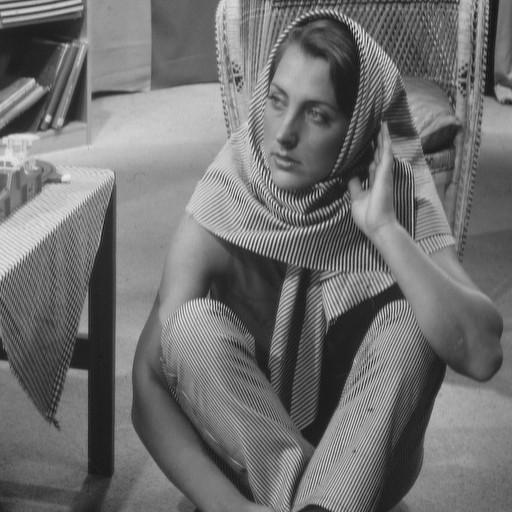
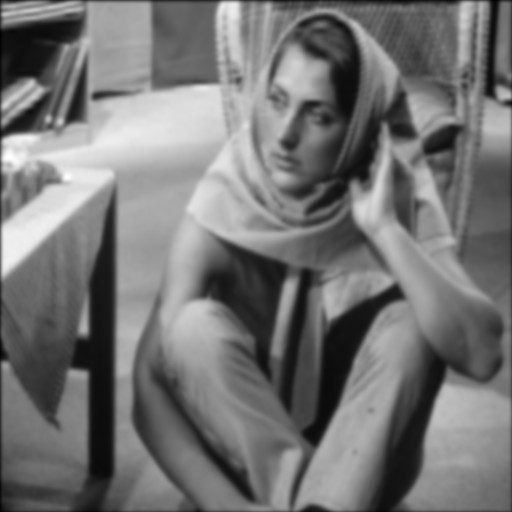
доделана 3 лаба.

diff --git a/lab3/lab3.py b/lab3/lab3.py
@@ -49,6 +49,35 @@ def jpegFunc(img, quality):
     return new_img
 
 
+def viewImgs(imgs, title, steps, *args):
+    for i in range(0, len(imgs)):
+        fig = plt.figure(figsize=(7, 7))
+        plt.imshow(imgs[i], cmap="gray")
+        if len(args) > 0:
+            plt.title(f"{title}{steps[i]}{args[0]}")
+        else:
+            plt.title(f"{title}{steps[i]}")
+    show()
+
+
+def printTable(table, coltype, rowtype):
+    first_row = "\t\t\t|\t"
+    delimiter = "-"*9
+    for i in range(0, len(table)):
+        first_row += f"s: {coltype[i]}\t|\t"
+    delimiter += "-"*(len(first_row) - 1 + 4*len(table))
+    print(first_row)
+    print(delimiter)
+    i = 0
+    for row in table:
+        text = f"JPEG: {rowtype[i]}\t|\t"
+        for el in row:
+            text += f"{el:.3f}\t|\t"
+        i += 1
+        print(text)
+        print(delimiter)
+
+
 def print_hi(name):
     # Use a breakpoint in the code line below to debug your script.
     print(f'Hi, {name}')  # Press Ctrl+F8 to toggle the breakpoint.
@@ -66,7 +95,7 @@ if __name__ == '__main__':
 
     # встраивание
     F = lab2.DVTwithLvlDecomposition(C, decompositionLvl)
-    alpha = 0.81
+    alpha = 0.9  # 0.81 нет смысла брать большое(>25), так как яркость ограничивается [0, 255]
     Fw = lab2.insertW(F, decompositionLvl, W, alpha, 0)  # встроили знак в спектр
     CW = lab2.invDVTwithLvlDecomposition(Fw, decompositionLvl)  # получили изображение со встроенным знаком
     imsave("CW.png", CW)
@@ -78,31 +107,119 @@ if __name__ == '__main__':
     newW = lab2.rateW(newFw, F, alpha, decompositionLvl, n, 0)
     ro = lab2.detector(W, newW)
     psnr = skimage.metrics.peak_signal_noise_ratio(C, savedCW)
-    print(f"Without changes:\t\tp: {ro:.5f}\tpsnr: {psnr:.3f}\tbest a: {alpha}")
+    print(f"Without changes:\t\tp: {ro:.5f}\t\tpsnr: {psnr:.3f}\t\ta: {alpha}\n\n")
 
     # циклический сдвиг с r от 0.1 до 0.9 с шагом 0.1 (сдвиг выполняется на r*N пикселей)
     cyclyImgs = []
     cycleShift = np.arange(0.1, 1, 0.1)
+    cycle_ro = []
     for shift in cycleShift:
-        cyclyImgs.append(cycle_shift(savedCW, shift))
+        deformImg = cycle_shift(savedCW, shift)
+        cyclyImgs.append(deformImg)
+        newFw = lab2.DVTwithLvlDecomposition(deformImg, decompositionLvl)
+        newW = lab2.rateW(newFw, F, alpha, decompositionLvl, n, 0)
+        ro = lab2.detector(W, newW)
+        cycle_ro.append(ro)
+        psnr = skimage.metrics.peak_signal_noise_ratio(savedCW, deformImg)
+        print(f"Cycle shift {shift:.1f}:\t\tp: {ro:.5f}\t\tpsnr: {psnr:.3f}\t\ta: {alpha}")
+    print("\n\n")
 
     # поворот от 1 до 90 с шагом 8.9
     rotationImgs = []
     rotation = np.arange(1, 91, 8.9)
+    rotation_ro = []
     for rot in rotation:
-        rotationImgs.append(rotate(savedCW, rot))
+        deformImg = rotate(savedCW, rot)
+        rotationImgs.append(deformImg)
+        newFw = lab2.DVTwithLvlDecomposition(deformImg, decompositionLvl)
+        newW = lab2.rateW(newFw, F, alpha, decompositionLvl, n, 0)
+        ro = lab2.detector(W, newW)
+        rotation_ro.append(ro)
+        psnr = skimage.metrics.peak_signal_noise_ratio(savedCW, deformImg)
+        print(f"Rotation {rot:.1f}:\t\tp: {ro:.5f}\t\tpsnr: {psnr:.3f}\t\ta: {alpha}")
+    print("\n\n")
 
     # гауссовское размытие сигма от 1 до 4 с шагом 0.5 (написать свертку CW равно g**C)
     GaussBlurImgs = []
     GaussBlur = np.arange(1, 4.1, 0.5)
+    GaussBlur_ro = []
     for sigma in GaussBlur:
-        GaussBlurImgs.append(Gauss_blur(savedCW, sigma))
+        deformImg = Gauss_blur(savedCW, sigma)
+        GaussBlurImgs.append(deformImg)
+        newFw = lab2.DVTwithLvlDecomposition(deformImg, decompositionLvl)
+        newW = lab2.rateW(newFw, F, alpha, decompositionLvl, n, 0)
+        ro = lab2.detector(W, newW)
+        GaussBlur_ro.append(ro)
+        psnr = skimage.metrics.peak_signal_noise_ratio(savedCW, deformImg)
+        print(f"Gaussian Blur {sigma}:\t\tp: {ro:.5f}\t\tpsnr: {psnr:.3f}\t\ta: {alpha}")
+    print("\n\n")
 
     # jpeg качество от 30 до 90 с шагом 10
     jpegImgs = []
     jpeg = np.arange(30, 100, 10)
+    jpeg_ro = []
     for QF in jpeg:
-        jpegImgs.append(jpegFunc(savedCW, QF))
+        deformImg = jpegFunc(savedCW, QF)
+        jpegImgs.append(deformImg)
+        newFw = lab2.DVTwithLvlDecomposition(deformImg, decompositionLvl)
+        newW = lab2.rateW(newFw, F, alpha, decompositionLvl, n, 0)
+        ro = lab2.detector(W, newW)
+        jpeg_ro.append(ro)
+        psnr = skimage.metrics.peak_signal_noise_ratio(savedCW, deformImg)
+        print(f"JPEG {QF}:\t\tp: {ro:.5f}\t\tpsnr: {psnr:.3f}\t\ta: {alpha}")
+    print("\n\n")
+
+    # во второй лабы мы встраивали с помощью вейвлета Хаара.
+    # он основан на выделении границ
+    # при изменении положения границ объектов спектр тоже уедет(согласно преобразованию изображения)
+
+    # при циклическом сдвиге форма границ объектов остается, но они смещаются => спектр тоже сместиться
+    # и цвз надо искать в другом месте, а не там где мы вставляли
+    # результат спектр ДВП изменен, цвз потеряна
+
+    # при повороте границы тоже повернуться, а значит изменяться вертикальные и горизонтальные объекты, что приведет
+    # к изменеию спектра в ДВП
+    # новые горизонтальные и вертикальные составляющие + цвз кусочно остается в месте встраивания
+    # результат спектр искажен, цвз утеряна
+
+    # размытие просто уменьшает резкость границ -> спектр сглаживается, но границы остаются и цвз остается на месте
+    # но размытие сглаживает -> цвз имеет маленькие изменения в спектре, значит оно затирается
+    # но если цвз имеет значительные значения(например видимое цвз), то сглаживание что-то оставит, а цвз обнаружиться
+
+    # в jpeg границы остаются и цвз остается на месте
+    # при расжатии картинки с появляются потери из-за "типо квантования" -> в областях 8х8 происходит обрезание яркости
+    # в областях 8х8 где мало различные пиксели происходит сглаживание(псевдо усреднение)
+    # в областях 8х8 где значительно различные пиксели впринципе границы объектов остаются
+    # вывод: при малых значениях цвз детектирование может быть затруднено
+    # из-за обрезок->локальное сглаживание->сглаживание спектра
+    # при значительных значения цвз детектирование должно быть получше
+
+    print(f"means:\ncycle shift: {np.mean(cycle_ro)}\n"
+          f"rotation: {np.mean(rotation_ro)}\n"
+          f"Gaussian Blur: {np.mean(GaussBlur_ro)}\n"
+          f"JPEG: {np.mean(jpeg_ro)}")
+
+    # viewImgs(cyclyImgs, "cycle shift with r=", cycleShift)
+    # viewImgs(rotationImgs, "rotation with ", rotation, "°")
+    # viewImgs(GaussBlurImgs, "Gaussian Blur with sigma=", GaussBlur)
+    # viewImgs(jpegImgs, "JPEG with QF=", jpeg)
 
     # два зашумления на выбор составит таблицу устойчивости по двум параметрам
     # (1 параметр шума - строки, 2 параметр шума - столбцы)
+    # jpeg и GaussBlur
+    twiceDeformImgs = []
+    firstDeform = jpeg
+    secondDeform = GaussBlur
+    roTable = np.zeros((len(firstDeform), len(secondDeform)))
+    for blur in secondDeform:
+        for QF in firstDeform:
+            deformImg = Gauss_blur(savedCW, blur)  # просто поменять функции чтоб другие посмотреть.
+            deformImg = jpegFunc(deformImg, QF)
+            twiceDeformImgs.append(deformImg)
+            newFw = lab2.DVTwithLvlDecomposition(deformImg, decompositionLvl)
+            newW = lab2.rateW(newFw, F, alpha, decompositionLvl, n, 0)
+            ro = lab2.detector(W, newW)
+            roTable[list(firstDeform).index(QF), list(secondDeform).index(blur)] = ro
+            psnr = skimage.metrics.peak_signal_noise_ratio(savedCW, deformImg)
+
+    printTable(roTable, jpeg, GaussBlur)
